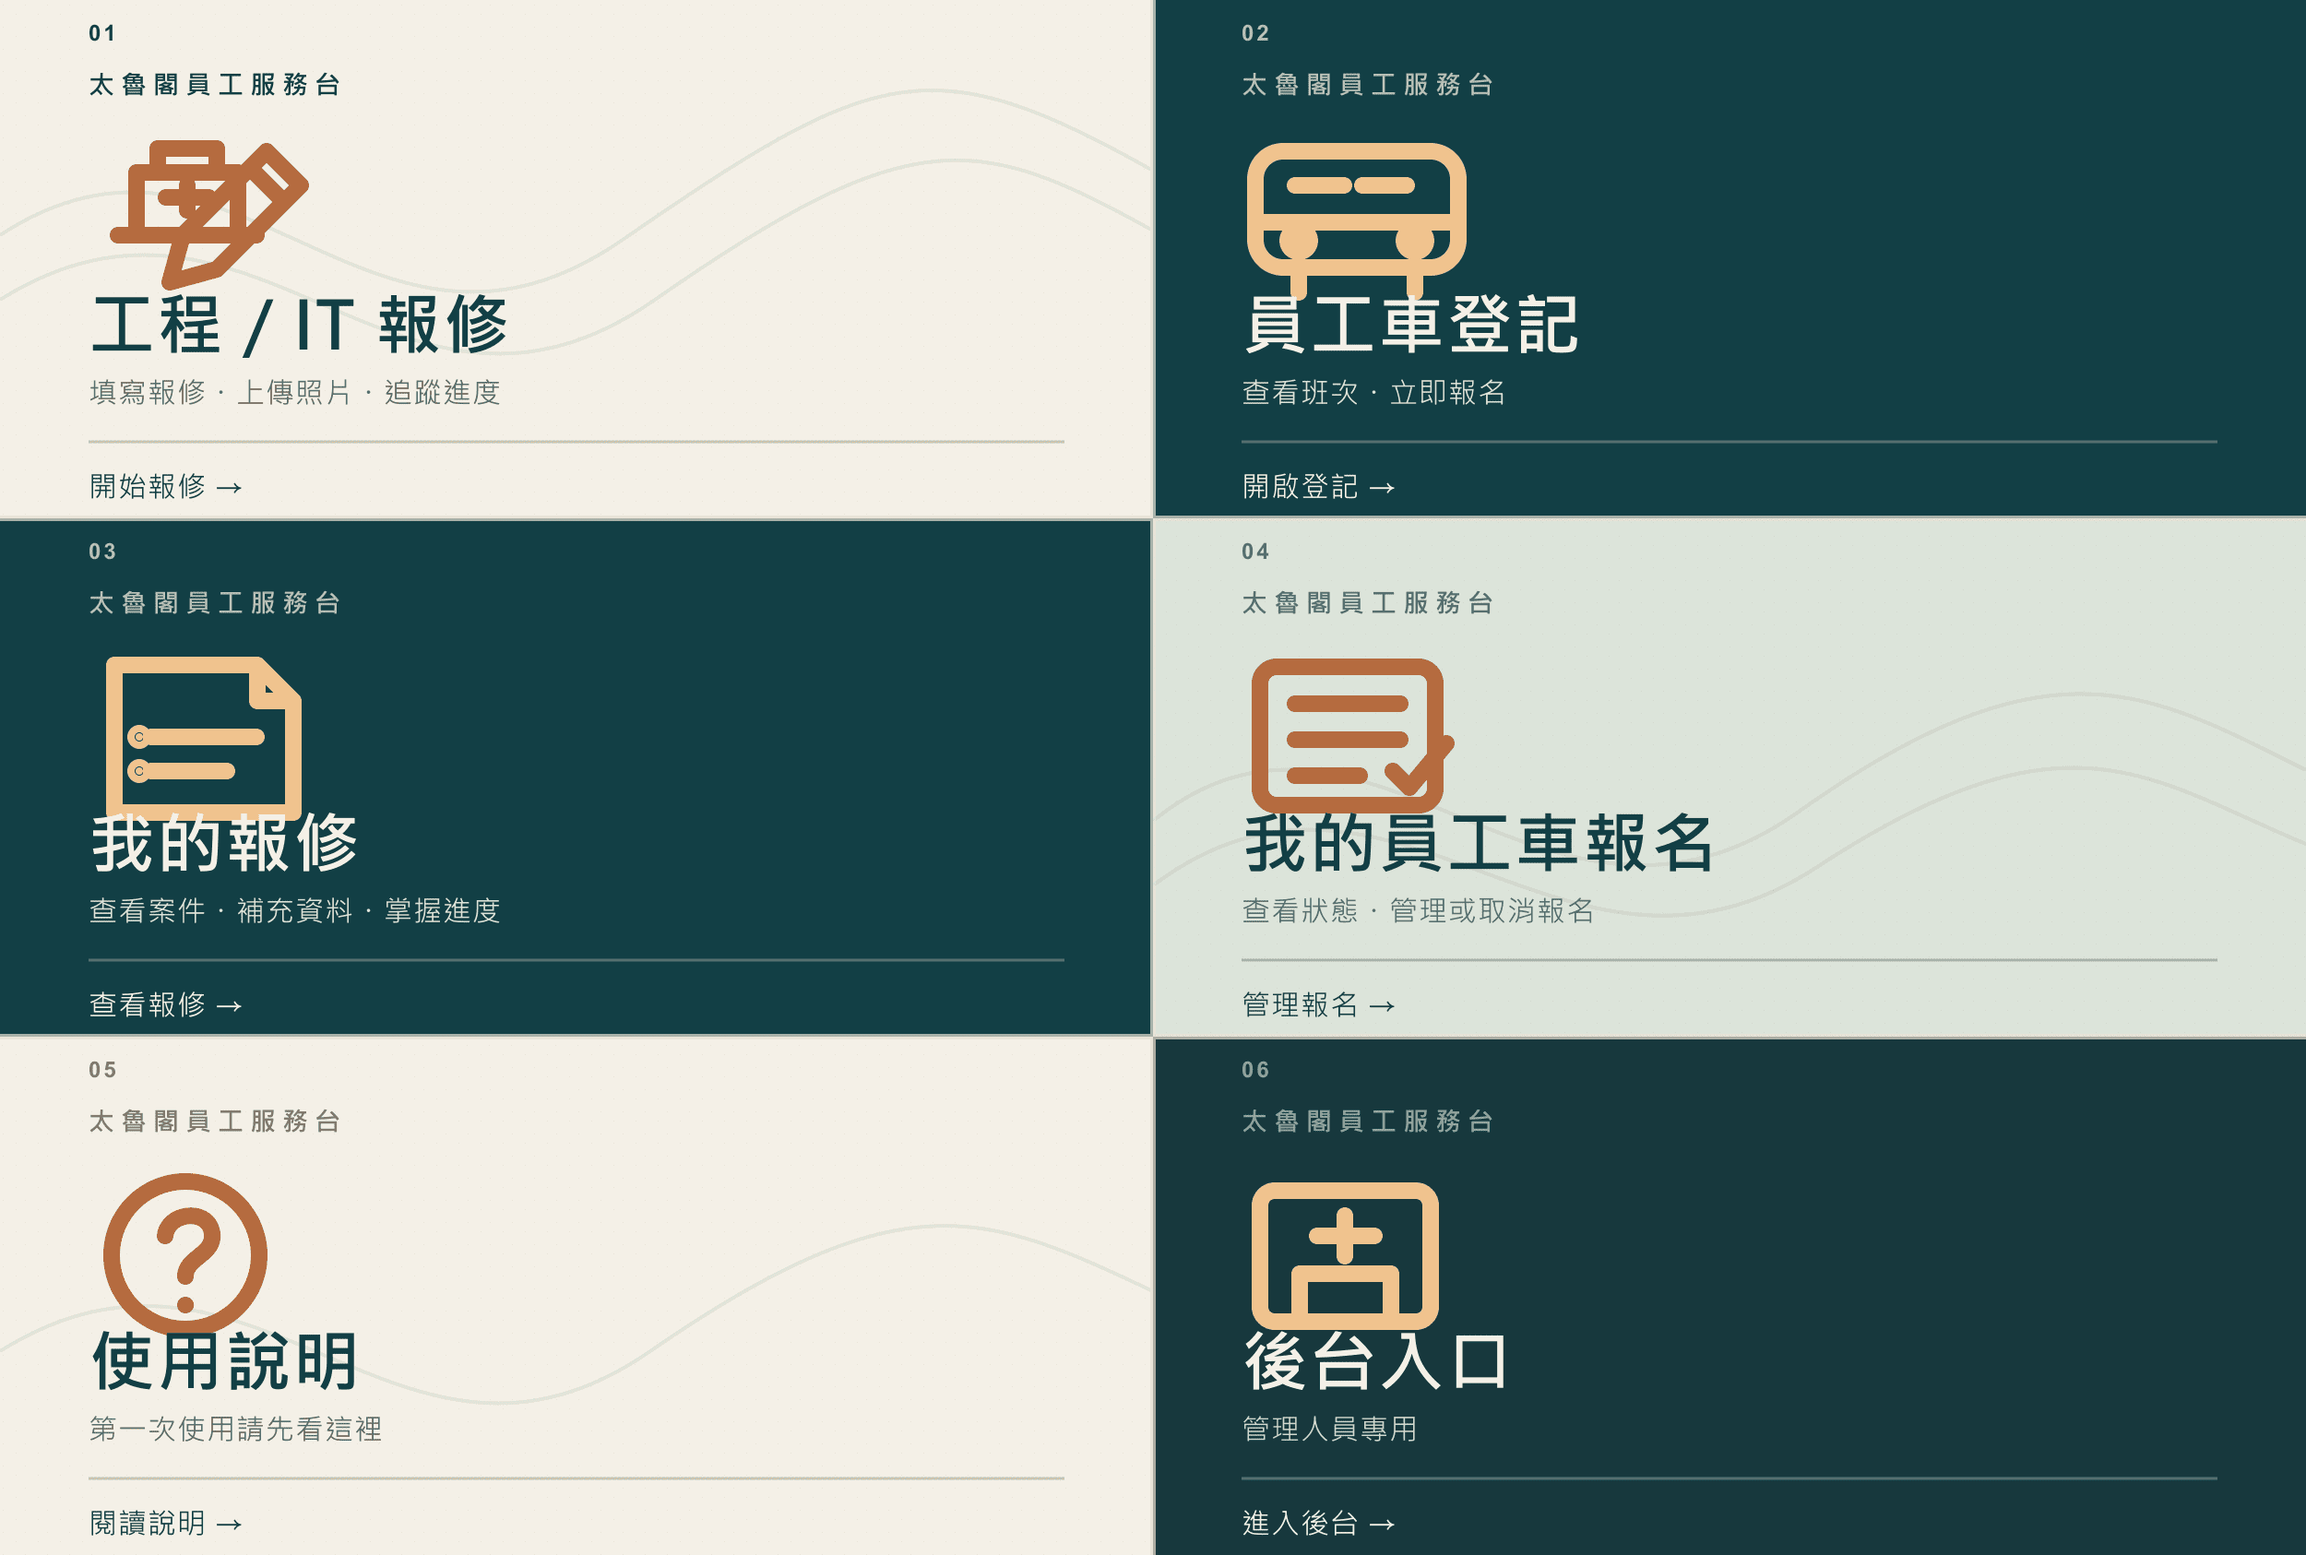
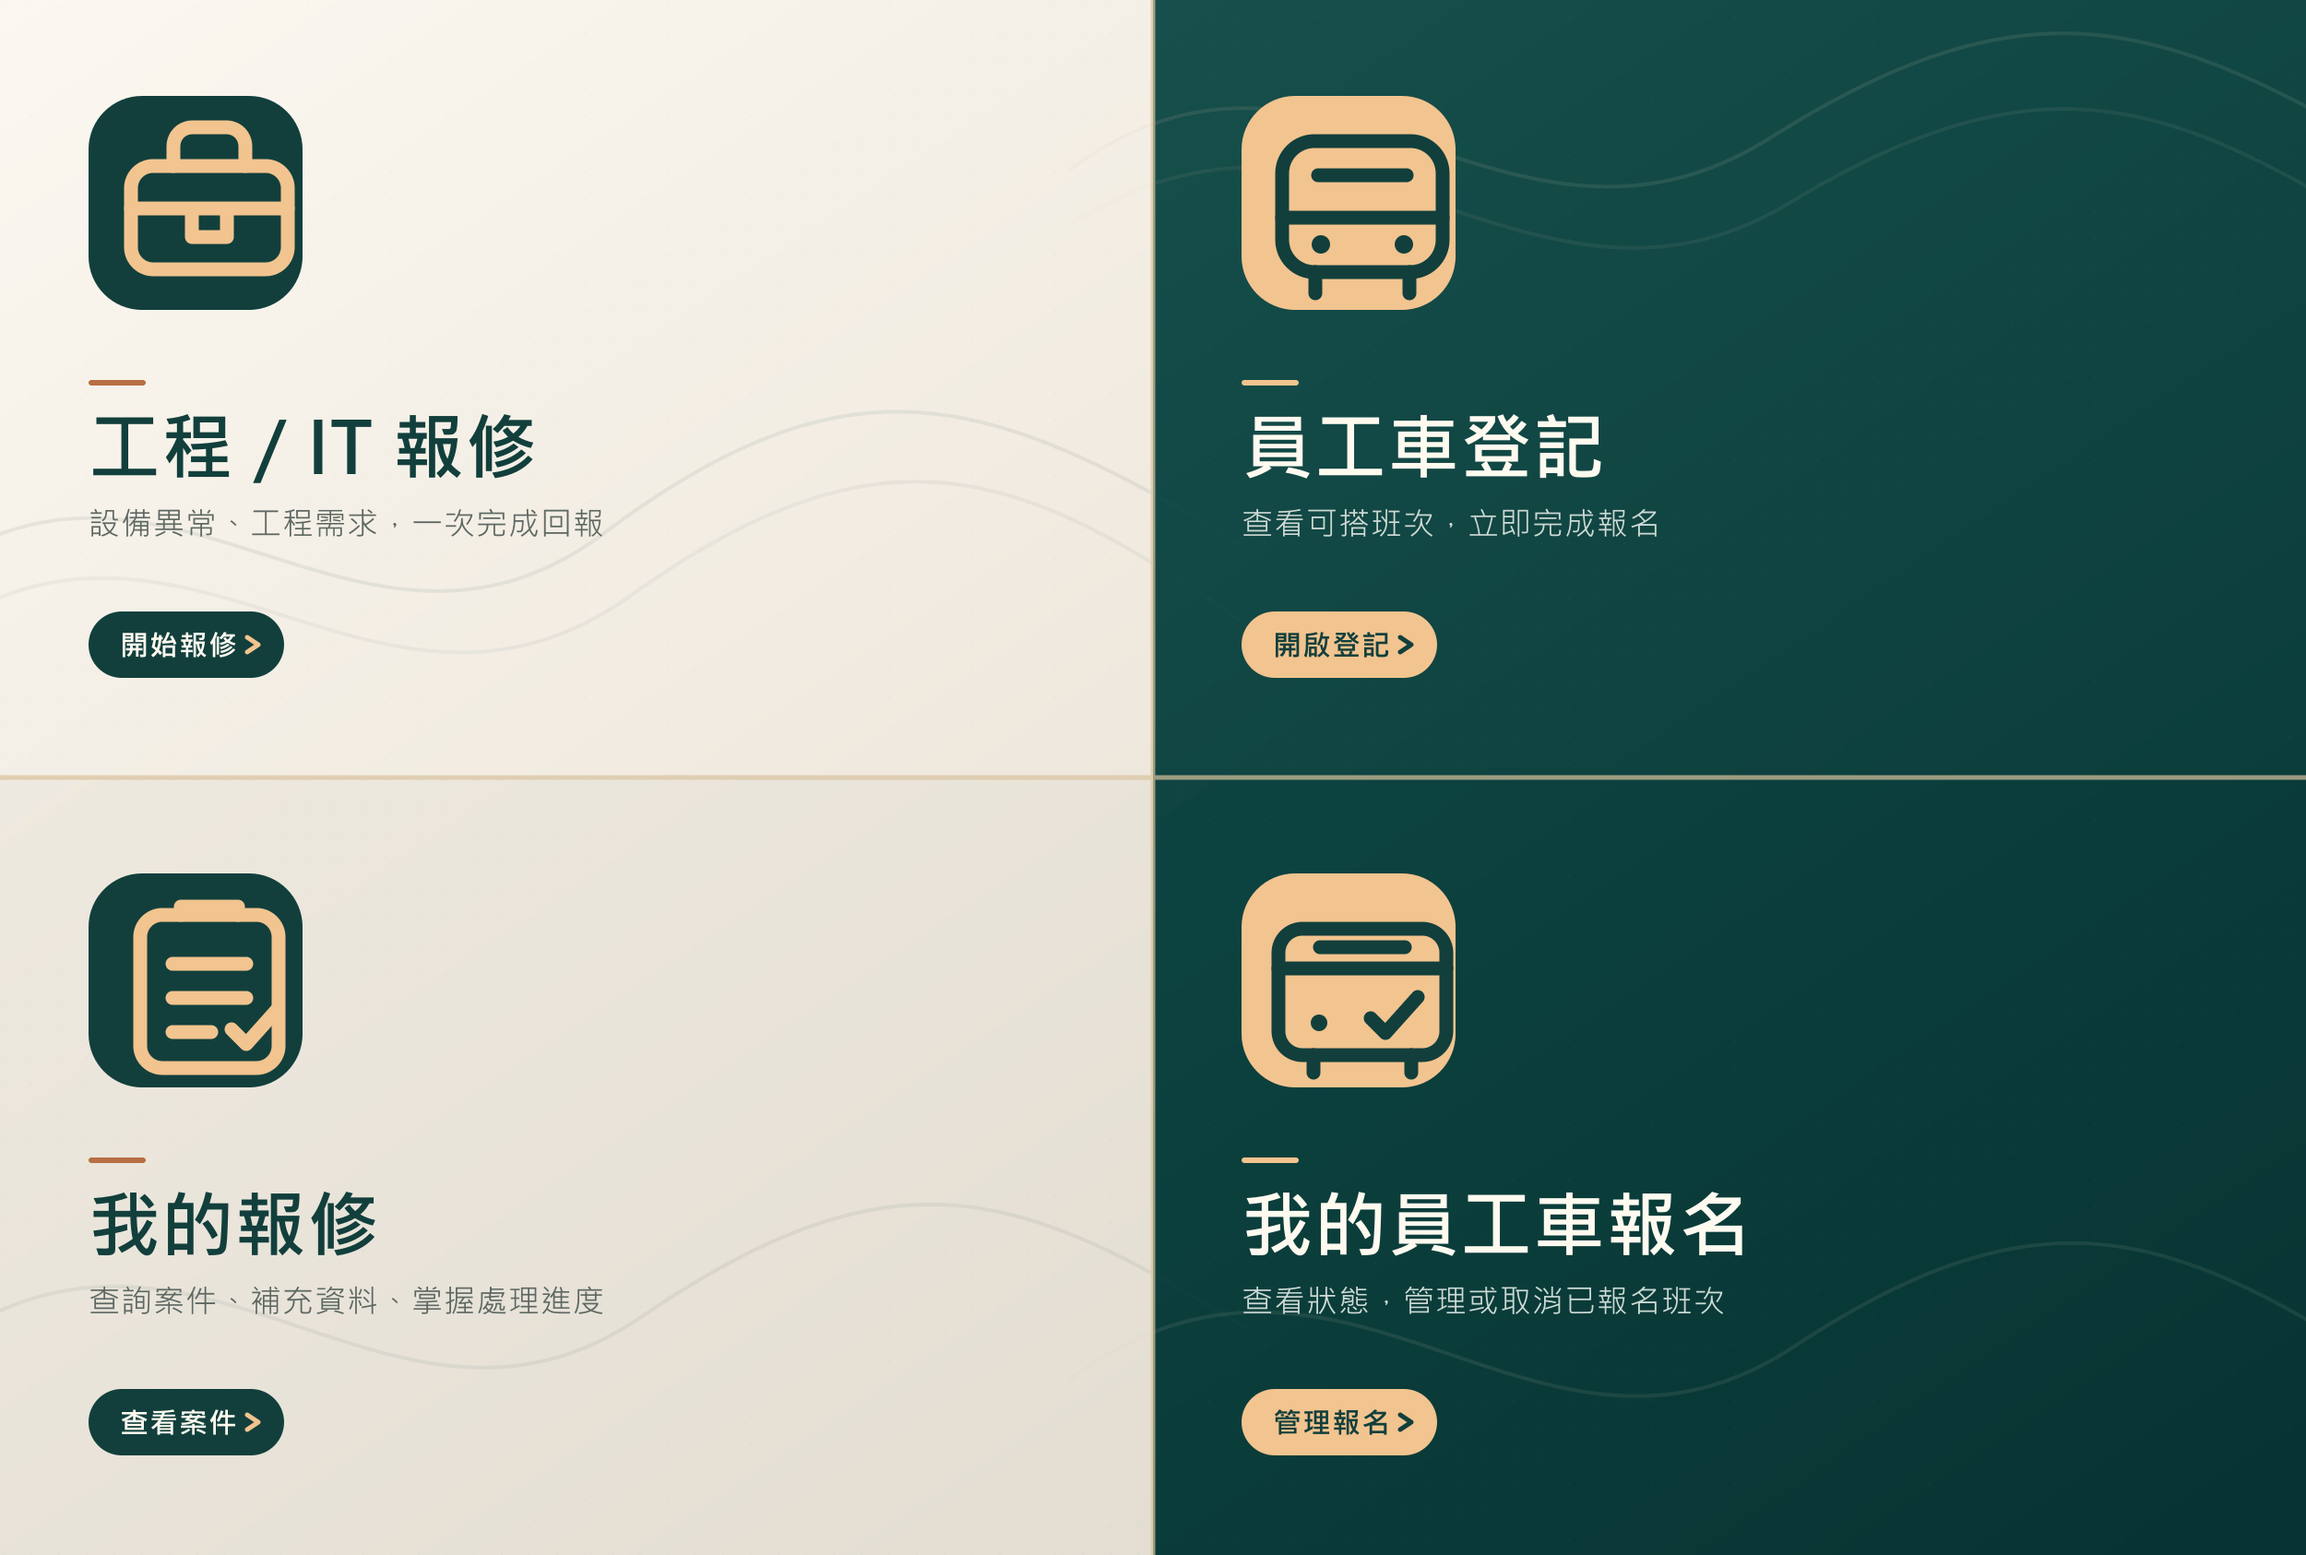
Redesign LINE rich menu as four services

diff --git a/src/lib/line-rich-menu.test.ts b/src/lib/line-rich-menu.test.ts
@@ -7,12 +7,12 @@ const baseEnv = {
   NEXT_PUBLIC_LINE_LIFF_ID: "1234567890-AbCdEfGh",
 };
 
-test("rich menu covers the 2500x1686 image with six aligned areas", () => {
+test("rich menu covers the 2500x1686 image with four aligned areas", () => {
   const menu = buildLineRichMenu(baseEnv);
   assert.deepEqual(menu.size, { width: 2500, height: 1686 });
-  assert.equal(menu.areas.length, 6);
-  assert.deepEqual(menu.areas[0].bounds, { x: 0, y: 0, width: 1250, height: 562 });
-  assert.deepEqual(menu.areas[5].bounds, { x: 1250, y: 1124, width: 1250, height: 562 });
+  assert.equal(menu.areas.length, 4);
+  assert.deepEqual(menu.areas[0].bounds, { x: 0, y: 0, width: 1250, height: 843 });
+  assert.deepEqual(menu.areas[3].bounds, { x: 1250, y: 843, width: 1250, height: 843 });
 });
 
 test("repair actions preserve the existing webhook commands", () => {
@@ -25,8 +25,6 @@ test("shuttle links use verified LIFF entry points", () => {
   assert.deepEqual(resolveLineRichMenuUrls(baseEnv), {
     shuttle: "https://liff.line.me/1234567890-AbCdEfGh",
     myShuttle: "https://liff.line.me/1234567890-AbCdEfGh?view=my-bookings",
-    help: "https://employee-shuttle-line-production.up.railway.app/line/help",
-    admin: "https://employee-shuttle-line-production.up.railway.app/admin",
   });
 });
 
@@ -34,10 +32,12 @@ test("rich menu refuses to fall back to an unverified general URL", () => {
   assert.throws(() => buildLineRichMenu({ APP_BASE_URL: baseEnv.APP_BASE_URL }), /NEXT_PUBLIC_LINE_LIFF_ID/);
 });
 
-test("explicit URL overrides must be concrete HTTPS URLs", () => {
-  assert.throws(
-    () => resolveLineRichMenuUrls({ ...baseEnv, LINE_HELP_URL: "https://example.com/?token={lineToken}" }),
-    /placeholder/,
-  );
-  assert.throws(() => resolveLineRichMenuUrls({ ...baseEnv, LINE_HELP_URL: "http://example.com/help" }), /HTTPS/);
+test("menu contains only the four employee-facing actions", () => {
+  const menu = buildLineRichMenu(baseEnv);
+  assert.deepEqual(menu.areas.map(({ action }) => action.label), [
+    "工程／IT 報修",
+    "員工車登記",
+    "我的報修",
+    "我的員工車報名",
+  ]);
 });

diff --git a/src/lib/line-rich-menu.ts b/src/lib/line-rich-menu.ts
@@ -36,10 +36,6 @@ function productionUrl(value: string | undefined, label: string) {
   return url;
 }
 
-function childUrl(base: URL, pathname: string) {
-  return new URL(pathname, `${base.origin}/`).toString();
-}
-
 function liffUrl(liffId: string | undefined, view?: "my-bookings") {
   const value = liffId?.trim();
   if (!value || !/^\d+-[A-Za-z0-9]+$/.test(value)) throw new Error("NEXT_PUBLIC_LINE_LIFF_ID 未設定或格式不正確");
@@ -49,33 +45,28 @@ function liffUrl(liffId: string | undefined, view?: "my-bookings") {
 }
 
 export function resolveLineRichMenuUrls(env: Environment) {
-  const base = productionUrl(env.APP_BASE_URL, "APP_BASE_URL");
   return {
     shuttle: productionUrl(liffUrl(env.NEXT_PUBLIC_LINE_LIFF_ID), "LIFF 員工車入口").toString(),
     myShuttle: productionUrl(liffUrl(env.NEXT_PUBLIC_LINE_LIFF_ID, "my-bookings"), "LIFF 我的員工車報名").toString(),
-    help: productionUrl(env.LINE_HELP_URL || childUrl(base, "/line/help"), "LINE_HELP_URL").toString(),
-    admin: productionUrl(env.LINE_ADMIN_URL || childUrl(base, "/admin"), "LINE_ADMIN_URL").toString(),
   };
 }
 
 export function buildLineRichMenu(env: Environment): LineRichMenuPayload {
   const urls = resolveLineRichMenuUrls(env);
   const cellWidth = 1250;
-  const cellHeight = 562;
+  const cellHeight = 843;
 
   const actions: LineRichMenuAction[] = [
     { type: "message", label: "工程／IT 報修", text: "我要報修" },
     { type: "uri", label: "員工車登記", uri: urls.shuttle },
     { type: "message", label: "我的報修", text: "我的報修" },
     { type: "uri", label: "我的員工車報名", uri: urls.myShuttle },
-    { type: "uri", label: "使用說明", uri: urls.help },
-    { type: "uri", label: "後台入口", uri: urls.admin },
   ];
 
   return {
     size: LINE_RICH_MENU_SIZE,
     selected: true,
-    name: "太魯閣員工服務台",
+    name: "太魯閣員工服務台｜四大服務",
     chatBarText: "員工服務台",
     areas: actions.map((action, index) => ({
       bounds: {

diff --git a/README.md b/README.md
@@ -102,18 +102,16 @@ https://line-repair-vercel.vercel.app/api/line/webhook
 
 在 LINE Developers Console 的 Messaging API 頁面設定上述 Webhook URL、啟用 `Use webhook`，並關閉會和 webhook 重複回覆的 Greeting message／Auto-reply（若現場仍需自動回覆，請先確認不會重複）。不要把 webhook 改指向本 Railway 專案，也不要建立第三個 LINE 官方帳號。
 
-### Rich Menu 六格動作
+### Rich Menu 四格動作
 
-Rich Menu 圖為 `public/line/rich-menu-taroko.png`（2500 × 1686、2 欄 × 3 列），可編輯來源為 `assets/line-rich-menu-taroko.svg`。各格和 API 點擊區座標完全對齊：
+Rich Menu 圖為 `public/line/rich-menu-taroko.png`（2500 × 1686、2 欄 × 2 列），可編輯來源為 `assets/line-rich-menu-taroko.svg`。介面只保留四個最常用的員工功能，各格和 API 點擊區座標完全對齊：
 
 | 位置 | 按鈕 | LINE 動作 | 最終入口 |
 | --- | --- | --- | --- |
 | 左上 | 工程／IT 報修 | Message：`我要報修` | 既有報修 webhook 依 LINE 使用者產生 `/repair?token=...&view=repair` |
 | 右上 | 員工車登記 | URI | `https://liff.line.me/<LIFF_ID>` |
-| 左中 | 我的報修 | Message：`我的報修` | 既有報修 webhook 依 LINE 使用者產生 `/repair?token=...&view=mine` |
-| 右中 | 我的員工車報名 | URI | `https://liff.line.me/<LIFF_ID>?view=my-bookings` |
-| 左下 | 使用說明 | URI | `https://employee-shuttle-line-production.up.railway.app/line/help` |
-| 右下 | 後台入口 | URI | `https://employee-shuttle-line-production.up.railway.app/admin` |
+| 左下 | 我的報修 | Message：`我的報修` | 既有報修 webhook 依 LINE 使用者產生 `/repair?token=...&view=mine` |
+| 右下 | 我的員工車報名 | URI | `https://liff.line.me/<LIFF_ID>?view=my-bookings` |
 
 LINE Rich Menu 的 URI 是固定網址，不會把 `/?token={lineToken}` 中的 `{lineToken}` 動態替換。員工車入口必須使用正式 LIFF URL；LIFF SDK 取得 ID token 後，後端呼叫 LINE Login `POST /oauth2/v2.1/verify`，核對 `LINE_LOGIN_CHANNEL_ID` 與 token 有效期，再建立本系統的簽章 session。前端 profile、query string 或自行填入的 `lineUserId` 都不可信任。
 
@@ -144,8 +142,8 @@ LINE Rich Menu 的 URI 是固定網址，不會把 `/?token={lineToken}` 中的 
 ### 用 Messaging API 建立 Rich Menu
 
 1. 確認使用的是**現有報修 LINE 官方帳號**的 Messaging API channel access token。
-2. 在本機或受控的部署環境設定 `APP_BASE_URL`、`NEXT_PUBLIC_LINE_LIFF_ID` 與現有官方帳號的 `LINE_CHANNEL_ACCESS_TOKEN`；不要把真實值寫入 `.env.example` 或 commit。
-3. 先執行 dry run，檢查六格動作、圖片大小與 URL：
+2. 在本機或受控的部署環境設定 `NEXT_PUBLIC_LINE_LIFF_ID` 與現有官方帳號的 `LINE_CHANNEL_ACCESS_TOKEN`；不要把真實值寫入 `.env.example` 或 commit。
+3. 先執行 dry run，檢查四格動作、圖片大小與 URL：
 
    ```bash
    npm run line:rich-menu
@@ -157,14 +155,7 @@ LINE Rich Menu 的 URI 是固定網址，不會把 `/?token={lineToken}` 中的 
    npm run line:rich-menu -- --apply
    ```
 
-腳本依序呼叫 LINE 官方的 validate、create、image upload 與 set-default API，且不會輸出 channel access token。若只想用 LINE Official Account Manager 手動建立，請選 2 × 3 格版型、上傳同一 PNG，並依上表設定 Message／URI 動作；不要同時在 Manager 與 Messaging API 維護兩份預設選單，以免優先順序造成誤判。
-
-可選 URI 覆寫（全部必須是完整 HTTPS URL）：
-
-```env
-LINE_HELP_URL=
-LINE_ADMIN_URL=
-```
+腳本依序呼叫 LINE 官方的 validate、create、image upload 與 set-default API，且不會輸出 channel access token。若只想用 LINE Official Account Manager 手動建立，請選 2 × 2 格版型、上傳同一 PNG，並依上表設定 Message／URI 動作；不要同時在 Manager 與 Messaging API 維護兩份預設選單，以免優先順序造成誤判。
 
 員工車兩個入口不可用一般 URI 覆寫，建立工具會強制使用 `NEXT_PUBLIC_LINE_LIFF_ID` 產生的 `liff.line.me` 網址。
 
